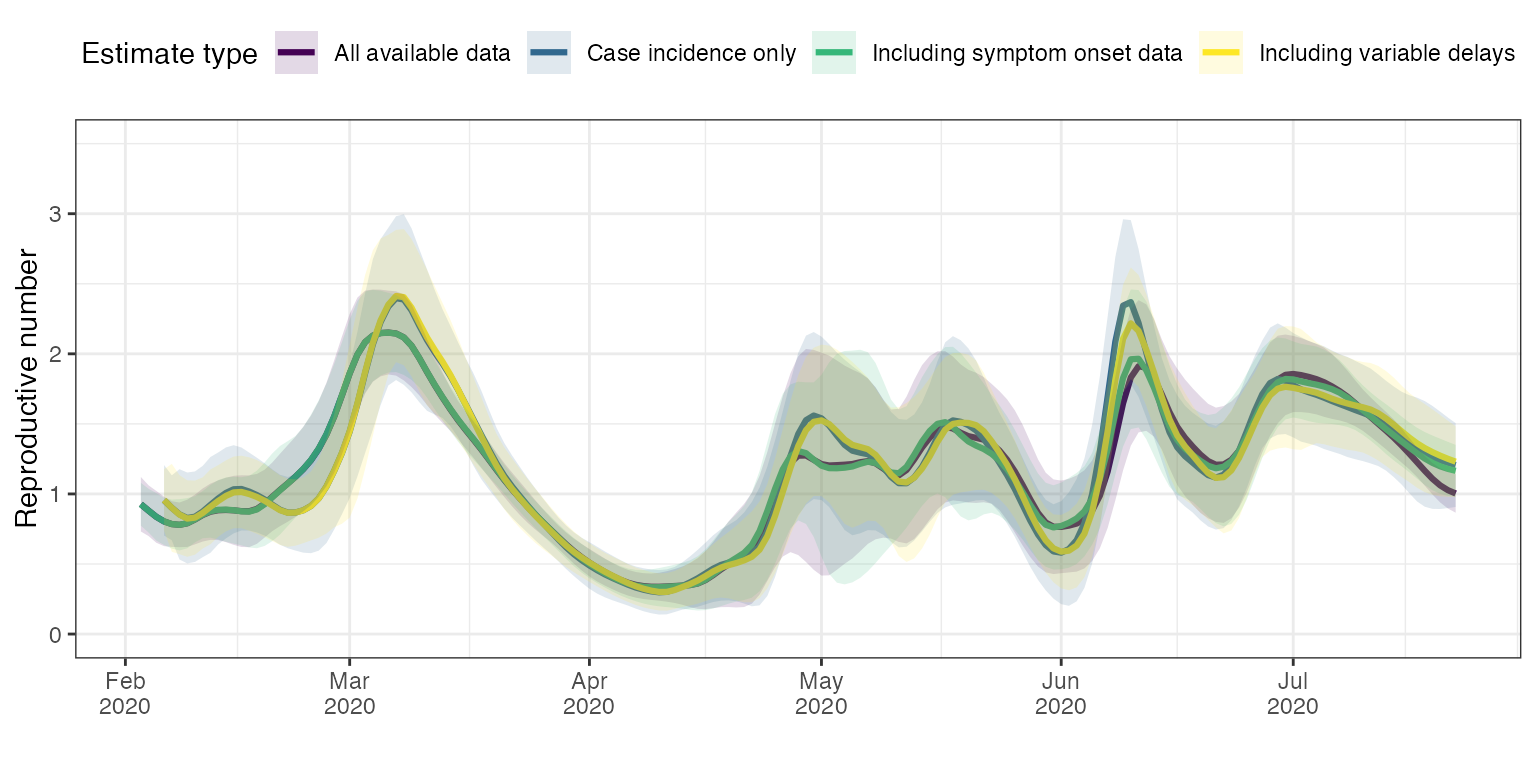
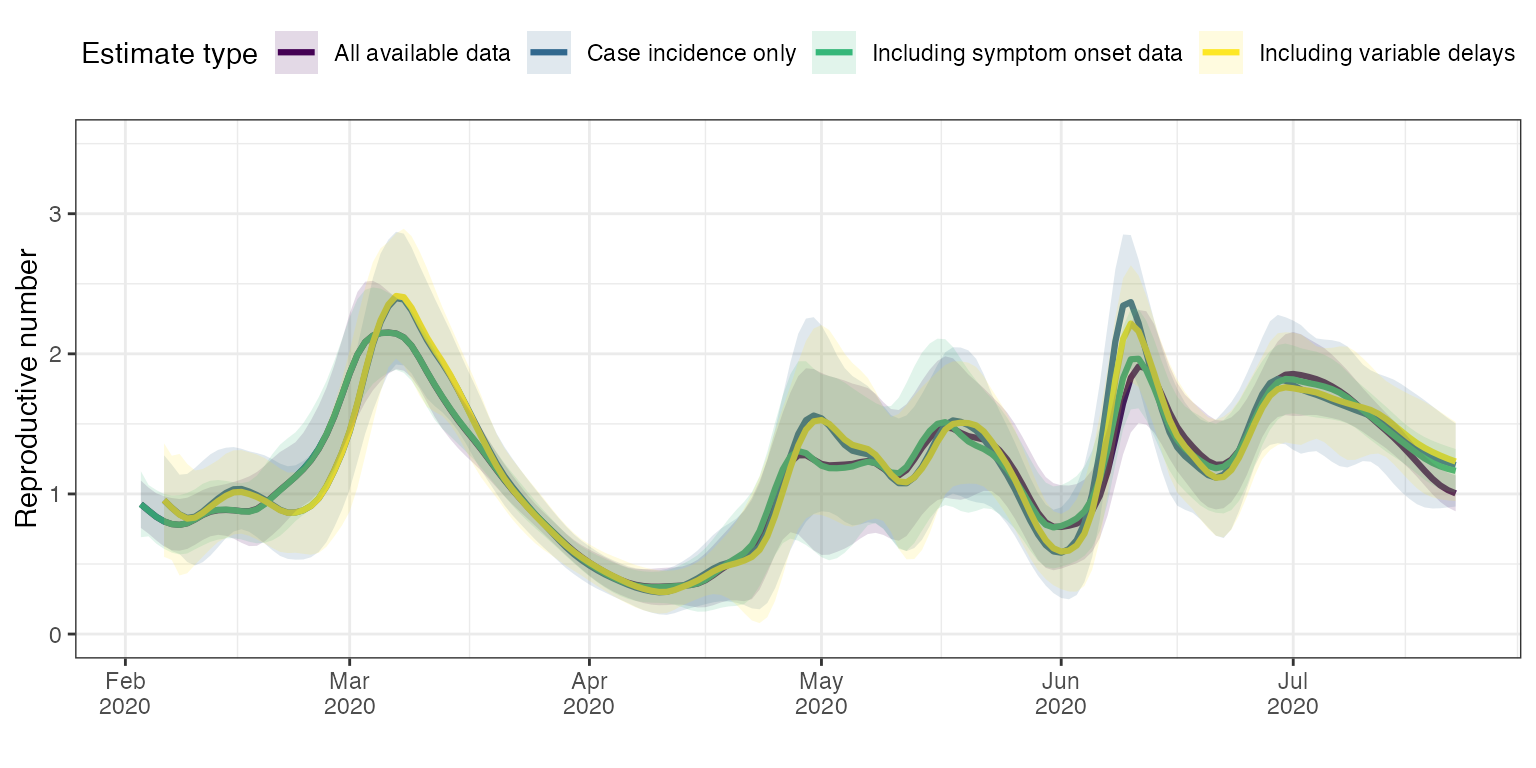
doc update

diff --git a/docs/articles/comparison_levels_input_details.html b/docs/articles/comparison_levels_input_details.html
@@ -223,12 +223,12 @@
 <span class="co">#&gt; # A tibble: 6 x 4</span>
 <span class="co">#&gt;   date       Re_estimate CI_down_Re_estimate CI_up_Re_estimate</span>
 <span class="co">#&gt;   &lt;date&gt;           &lt;dbl&gt;               &lt;dbl&gt;             &lt;dbl&gt;</span>
-<span class="co">#&gt; 1 2020-02-06       0.955               0.703              1.21</span>
-<span class="co">#&gt; 2 2020-02-07       0.901               0.669              1.13</span>
-<span class="co">#&gt; 3 2020-02-08       0.854               0.532              1.18</span>
-<span class="co">#&gt; 4 2020-02-09       0.828               0.504              1.15</span>
-<span class="co">#&gt; 5 2020-02-10       0.838               0.515              1.16</span>
-<span class="co">#&gt; 6 2020-02-11       0.875               0.549              1.20</span></code></pre></div>
+<span class="co">#&gt; 1 2020-02-06       0.955               0.633              1.28</span>
+<span class="co">#&gt; 2 2020-02-07       0.901               0.593              1.21</span>
+<span class="co">#&gt; 3 2020-02-08       0.854               0.571              1.14</span>
+<span class="co">#&gt; 4 2020-02-09       0.828               0.514              1.14</span>
+<span class="co">#&gt; 5 2020-02-10       0.838               0.490              1.19</span>
+<span class="co">#&gt; 6 2020-02-11       0.875               0.513              1.24</span></code></pre></div>
 <p>We have obtained our first estimates of Re for Hong Kong from February to July 2020. Let us now plot these estimates with their confidence interval.</p>
 <div class="sourceCode" id="cb9"><pre class="downlit sourceCode r">
 <code class="sourceCode R"><span class="kw"><a href="https://rdrr.io/r/base/library.html">library</a></span><span class="op">(</span><span class="va"><a href="https://ggplot2.tidyverse.org">ggplot2</a></span><span class="op">)</span>
@@ -282,12 +282,12 @@
 <span class="co">#&gt; # A tibble: 6 x 4</span>
 <span class="co">#&gt;   date       Re_estimate CI_down_Re_estimate CI_up_Re_estimate</span>
 <span class="co">#&gt;   &lt;date&gt;           &lt;dbl&gt;               &lt;dbl&gt;             &lt;dbl&gt;</span>
-<span class="co">#&gt; 1 2020-02-03       0.927               0.774             1.08 </span>
-<span class="co">#&gt; 2 2020-02-04       0.880               0.724             1.04 </span>
-<span class="co">#&gt; 3 2020-02-05       0.837               0.667             1.01 </span>
-<span class="co">#&gt; 4 2020-02-06       0.804               0.635             0.973</span>
-<span class="co">#&gt; 5 2020-02-07       0.785               0.610             0.960</span>
-<span class="co">#&gt; 6 2020-02-08       0.780               0.597             0.963</span></code></pre></div>
+<span class="co">#&gt; 1 2020-02-03       0.927               0.691             1.16 </span>
+<span class="co">#&gt; 2 2020-02-04       0.880               0.697             1.06 </span>
+<span class="co">#&gt; 3 2020-02-05       0.837               0.645             1.03 </span>
+<span class="co">#&gt; 4 2020-02-06       0.804               0.608             1.00 </span>
+<span class="co">#&gt; 5 2020-02-07       0.785               0.581             0.989</span>
+<span class="co">#&gt; 6 2020-02-08       0.780               0.568             0.991</span></code></pre></div>
 <p>You may notice that the earliest Re estimates dates differ, this is a normal side effect of splitting the incidence data this way. We will plot them one on top of the other further down below, but you can already see that these estimates are different from the initial ones. In all likelihood, they are more accurate. By incorporating the empirical dates of symptom onset events, we bypassed the deconvolution step required to infer these dates from the case confirmation dates. Our goal is to produce an estimate of the incidence of infection events through time that is as close to reality as possible. When using the onset of symptoms, we are already halfway there. Thus, the estimates we produce using this additional data are likely to be closer to reality.</p>
 </div>
 <div id="further-analysis-including-variability-through-time-of-reporting-delays" class="section level2">

diff --git a/docs/articles/incidence_data_workflow_example.html b/docs/articles/incidence_data_workflow_example.html
@@ -225,12 +225,12 @@
 <span class="co">#&gt; # A tibble: 6 x 4</span>
 <span class="co">#&gt;   date       Re_estimate CI_down_Re_estimate CI_up_Re_estimate</span>
 <span class="co">#&gt;   &lt;date&gt;           &lt;dbl&gt;               &lt;dbl&gt;             &lt;dbl&gt;</span>
-<span class="co">#&gt; 1 2020-03-06        2.14                1.34              2.94</span>
-<span class="co">#&gt; 2 2020-03-07        1.87                1.37              2.38</span>
-<span class="co">#&gt; 3 2020-03-08        1.65                1.31              2.00</span>
-<span class="co">#&gt; 4 2020-03-09        1.49                1.20              1.80</span>
-<span class="co">#&gt; 5 2020-03-10        1.38                1.12              1.66</span>
-<span class="co">#&gt; 6 2020-03-11        1.31                1.07              1.58</span></code></pre></div>
+<span class="co">#&gt; 1 2020-03-06        2.14                1.62              2.67</span>
+<span class="co">#&gt; 2 2020-03-07        1.87                1.38              2.37</span>
+<span class="co">#&gt; 3 2020-03-08        1.65                1.22              2.08</span>
+<span class="co">#&gt; 4 2020-03-09        1.49                1.12              1.85</span>
+<span class="co">#&gt; 5 2020-03-10        1.38                1.07              1.69</span>
+<span class="co">#&gt; 6 2020-03-11        1.31                1.05              1.58</span></code></pre></div>
 <p>Now let us plot these estimates through time, along with their confidence intervals.</p>
 <div class="sourceCode" id="cb8"><pre class="downlit sourceCode r">
 <code class="sourceCode R"><span class="fu"><a href="https://ggplot2.tidyverse.org/reference/ggplot.html">ggplot</a></span><span class="op">(</span><span class="va">EST_estimates</span>, <span class="fu"><a href="https://ggplot2.tidyverse.org/reference/aes.html">aes</a></span><span class="op">(</span>x <span class="op">=</span> <span class="va">date</span>, y <span class="op">=</span> <span class="va">Re_estimate</span><span class="op">)</span><span class="op">)</span> <span class="op">+</span>

diff --git a/docs/articles/linelist_workflow_example.html b/docs/articles/linelist_workflow_example.html
@@ -282,11 +282,11 @@
 <span class="co">#&gt; # A tibble: 6 x 4</span>
 <span class="co">#&gt;   date       Re_estimate CI_down_Re_estimate CI_up_Re_estimate</span>
 <span class="co">#&gt;   &lt;date&gt;           &lt;dbl&gt;               &lt;dbl&gt;             &lt;dbl&gt;</span>
-<span class="co">#&gt; 1 2020-02-23        3.16                2.65              3.71</span>
+<span class="co">#&gt; 1 2020-02-23        3.16                2.66              3.71</span>
 <span class="co">#&gt; 2 2020-02-24        3.15                2.71              3.63</span>
-<span class="co">#&gt; 3 2020-02-25        3.13                1.03              5.23</span>
-<span class="co">#&gt; 4 2020-02-26        3.09                1.72              4.45</span>
-<span class="co">#&gt; 5 2020-02-27        3.04                2.50              3.58</span>
+<span class="co">#&gt; 3 2020-02-25        3.13                1.50              4.76</span>
+<span class="co">#&gt; 4 2020-02-26        3.09                2.05              4.12</span>
+<span class="co">#&gt; 5 2020-02-27        3.04                2.61              3.46</span>
 <span class="co">#&gt; 6 2020-02-28        2.98                2.73              3.25</span></code></pre></div>
 </div>
 <div id="plot" class="section level3">
